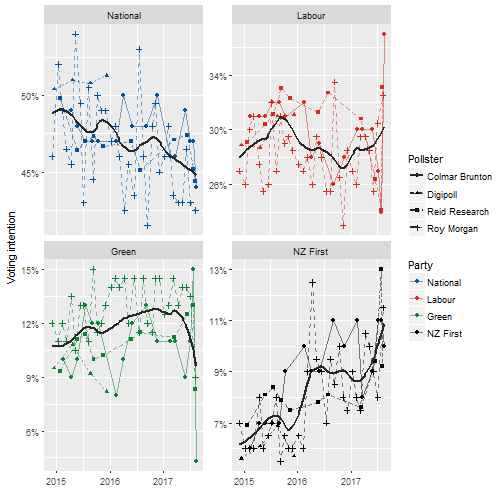
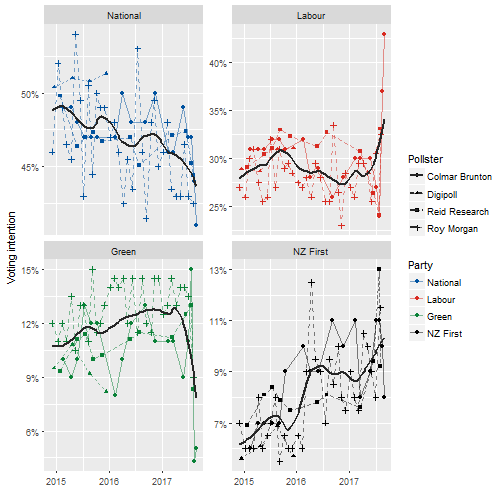
add Colmar Brunton end of August 2017 poll

diff --git a/pkg1/inst/doc/README.html b/pkg1/inst/doc/README.html
@@ -259,7 +259,7 @@ polls %&gt;%
 <span class="st">    </span><span class="kw">scale_x_date</span>(<span class="st">&quot;&quot;</span>) +
 <span class="st">    </span><span class="kw">facet_wrap</span>(~Party, <span class="dt">scales =</span> <span class="st">&quot;free_y&quot;</span>) </code></pre></div>
 <pre><code>## `geom_smooth()` using method = 'loess'</code></pre>
[2 lines of base64/hex data omitted]
 <p>Note that it is not appropriate to frequently update the version of <code>nzelect</code> on CRAN, so polling data will generally be out of date. The development version of <code>nzelect</code> from GitHub will be kept more up to date (but no promises exactly how much).</p>
 </div>
 <div id="usage---convenience-functions" class="section level2">
@@ -328,14 +328,14 @@ polls %&gt;%
 ##           Party pundit_perc curia_perc pundit_seats curia_seats
 ##           &lt;chr&gt;       &lt;dbl&gt;      &lt;dbl&gt;        &lt;dbl&gt;       &lt;dbl&gt;
 ## 1           ACT         0.5        0.5            1           1
-## 2  Conservative         0.3        0.3            0           0
-## 3         Green         9.2        8.8           11          11
-## 4        Labour        31.3       31.8           38          39
-## 5          Mana         0.3        0.3            0           0
-## 6         Maori         1.4        1.4            2           2
-## 7      National        44.5       44.2           55          54
-## 8      NZ First        10.5       10.7           13          13
-## 9 United Future         0.1        0.1            1           1</code></pre>
+## 2  Conservative         0.2        0.1            0           0
+## 3         Green         7.7        6.1            9           7
+## 4        Labour        35.5       37.7           43          46
+## 5          Mana         0.2        0.1            0           0
+## 6         Maori         1.3        1.4            2           2
+## 7      National        43.3       42.7           53          52
+## 8      NZ First         9.6        9.4           12          12
+## 9 United Future         0.1        0.0            1           1</code></pre>
 </div>
 </div>
 

diff --git a/README.md b/README.md
@@ -317,15 +317,15 @@ polls %>%
 ##            Party pundit_perc curia_perc pundit_seats curia_seats
 ##            <chr>       <dbl>      <dbl>        <dbl>       <dbl>
 ##  1           ACT         0.5        0.5            1           1
-##  2  Conservative         0.3        0.3            0           0
-##  3         Green         9.2        8.6           11          10
-##  4        Labour        31.3       32.1           38          39
-##  5          Mana         0.3        0.3            0           0
-##  6         Maori         1.4        1.4            2           2
-##  7      National        44.5       44.2           53          53
-##  8      NZ First        10.5       10.6           13          13
-##  9           TOP         1.9        2.0            2           2
-## 10 United Future         0.1        0.1            0           0
+##  2  Conservative         0.2        0.1            0           0
+##  3         Green         7.7        6.1            9           7
+##  4        Labour        35.5       37.7           43          45
+##  5          Mana         0.2        0.1            0           0
+##  6         Maori         1.3        1.4            2           2
+##  7      National        43.3       42.7           52          52
+##  8      NZ First         9.6        9.4           11          11
+##  9           TOP         1.5        1.6            2           2
+## 10 United Future         0.1        0.0            0           0
 ```
 
 
